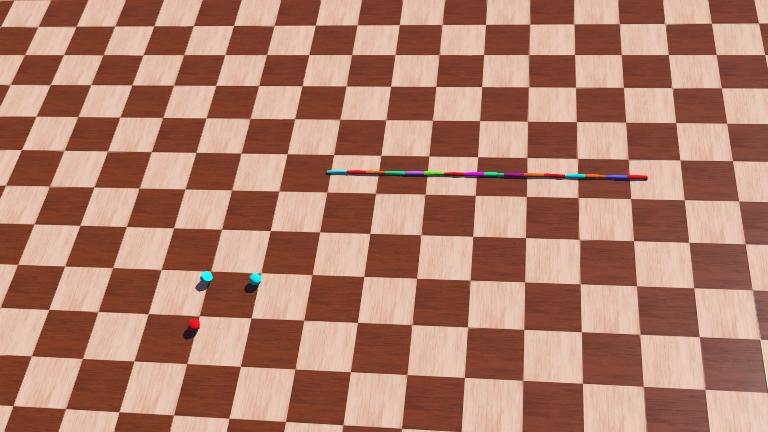
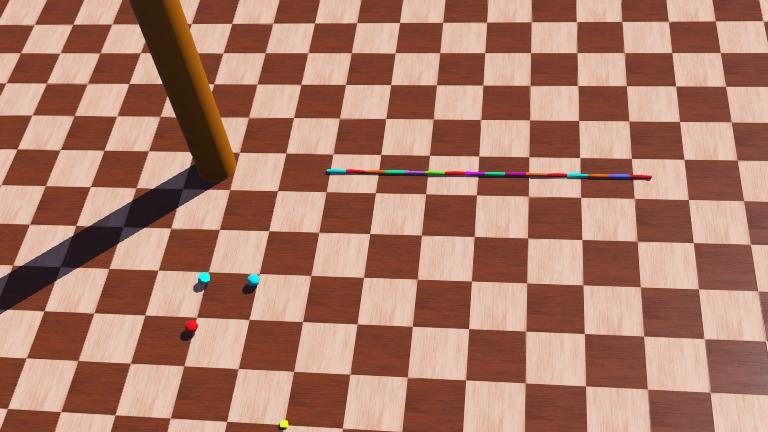
add a tree

diff --git a/controllers/snake_controller/snake_controller.py b/controllers/snake_controller/snake_controller.py
@@ -818,6 +818,20 @@ class snakeX:
 
             self.globalTraj.path = bezier_curve_3(headPosition, headPosition + np.array([-1, -1, 0]),  targetPosition + np.array([-1, -2, 0]), targetPosition)
             
+            
+    def generate_global_traj_on_tree(self, targetPosition):
+        # 这里的轨迹暂时是手动生成的
+        
+        self.globalTraj.path = [np.array([-1.36,-0.18,0.04]), 
+                    np.array([-1.36,-0.46,0.04]), 
+                    np.array([-1.36,-0.46,0.3]), 
+                    np.array([-1.36,-0.46,0.6]), 
+                    np.array([-1.36,-0.46,0.9]), 
+                    np.array([-1.36,-0.46,1.2]), 
+                    np.array([-1.36,-0.46,1.5]), 
+                    np.array([-1.36,-0.46,1.8])]  
+        
+            
  
 def bezier_curve_3(p0, p1, p2, p3, num_points=10):
     """
@@ -846,7 +860,11 @@ ss = snakeX()
 des = np.array([1, -1, 0])
 
 # 计算全局轨迹
-ss.compute_global_trajectory(targetPosition=des)
+# ss.compute_global_trajectory(targetPosition=des)
+ss.generate_global_traj_on_tree(targetPosition=des)
+
+
+
 
 while robot.step(timestep) != -1:
     """

diff --git a/controllers/snake_controller/idea.md b/controllers/snake_controller/idea.md
@@ -23,3 +23,7 @@
   + 让路径增加很多弯曲，走的更snake-like一点
 
 + 初步的局部轨迹增加完成，但是总体改观不大，然后发现head弯曲较大的时候，后面会崩
++ 其实可以尝试加一个大的圆柱体来做树干来模拟了，不断迭代
+
+
++ 先给出简单的直线的全局轨迹，然后局部轨迹改成环绕上升试一下